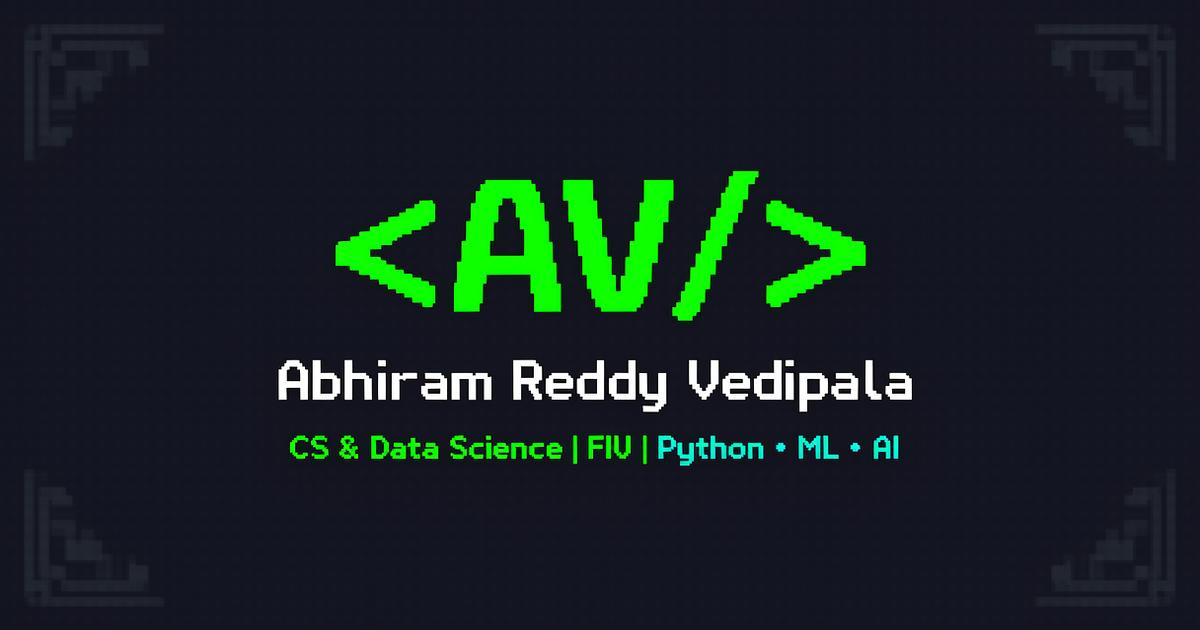
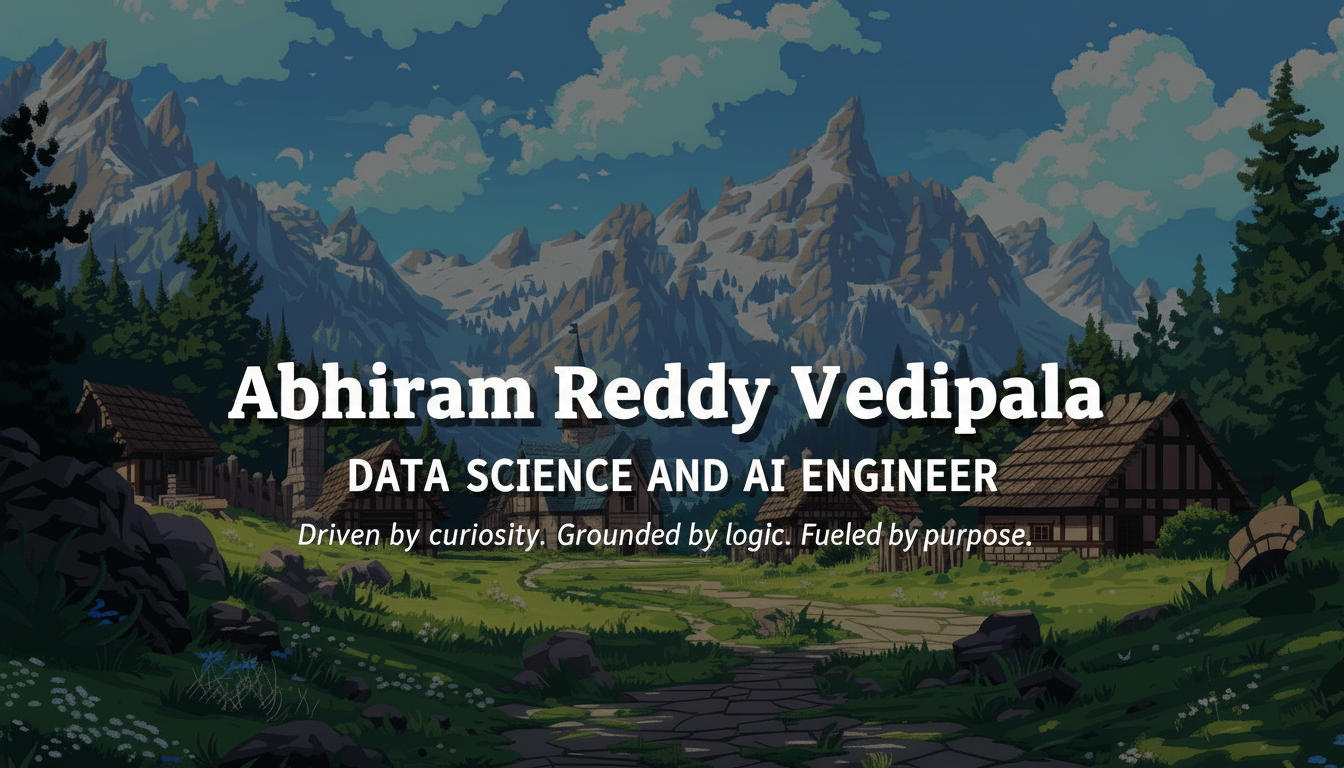
Update OG to hero image

diff --git a/index.html b/index.html
@@ -14,12 +14,15 @@
     <meta name="viewport" content="width=device-width, initial-scale=1.0" />
     <title>Abhiram Reddy Vedipala | CS &amp; Data Science Portfolio</title>
     <meta name="description" content="CS & Data Science Student at FIU | Python, Machine Learning, AI | Seeking Summer 2026 Internship" />
+    <meta name="author" content="Abhiram Vedipala" />
+    <meta name="robots" content="index, follow" />
+    <link rel="canonical" href="https://abhiramreddy.dev" />
 
     <!-- Open Graph (LinkedIn, Facebook preview) -->
     <meta property="og:type" content="website" />
     <meta property="og:url" content="https://abhiramreddy.dev" />
     <meta property="og:title" content="Abhiram Reddy Vedipala — CS & Data Science Portfolio" />
-    <meta property="og:description" content="Sophomore at FIU building projects in Python, ML, and AI. Seeking Summer 2026 internships in Data Science & Software Engineering." />
+    <meta property="og:description" content="Data Science & AI Engineer | CS Student @ FIU | Python • ML • AI | Seeking Summer 2026 Internship" />
     <meta property="og:image" content="https://abhiramreddy.dev/og-image.png" />
     <meta property="og:image:width" content="1200" />
     <meta property="og:image:height" content="630" />
@@ -27,7 +30,7 @@
     <!-- Twitter Card -->
     <meta name="twitter:card" content="summary_large_image" />
     <meta name="twitter:title" content="Abhiram Reddy Vedipala — CS & Data Science Portfolio" />
-    <meta name="twitter:description" content="Sophomore at FIU building projects in Python, ML, and AI. Seeking Summer 2026 internships." />
+    <meta name="twitter:description" content="Data Science & AI Engineer | CS Student @ FIU | Python • ML • AI | Seeking Summer 2026 Internship" />
     <meta name="twitter:image" content="https://abhiramreddy.dev/og-image.png" />
 </head>
 
